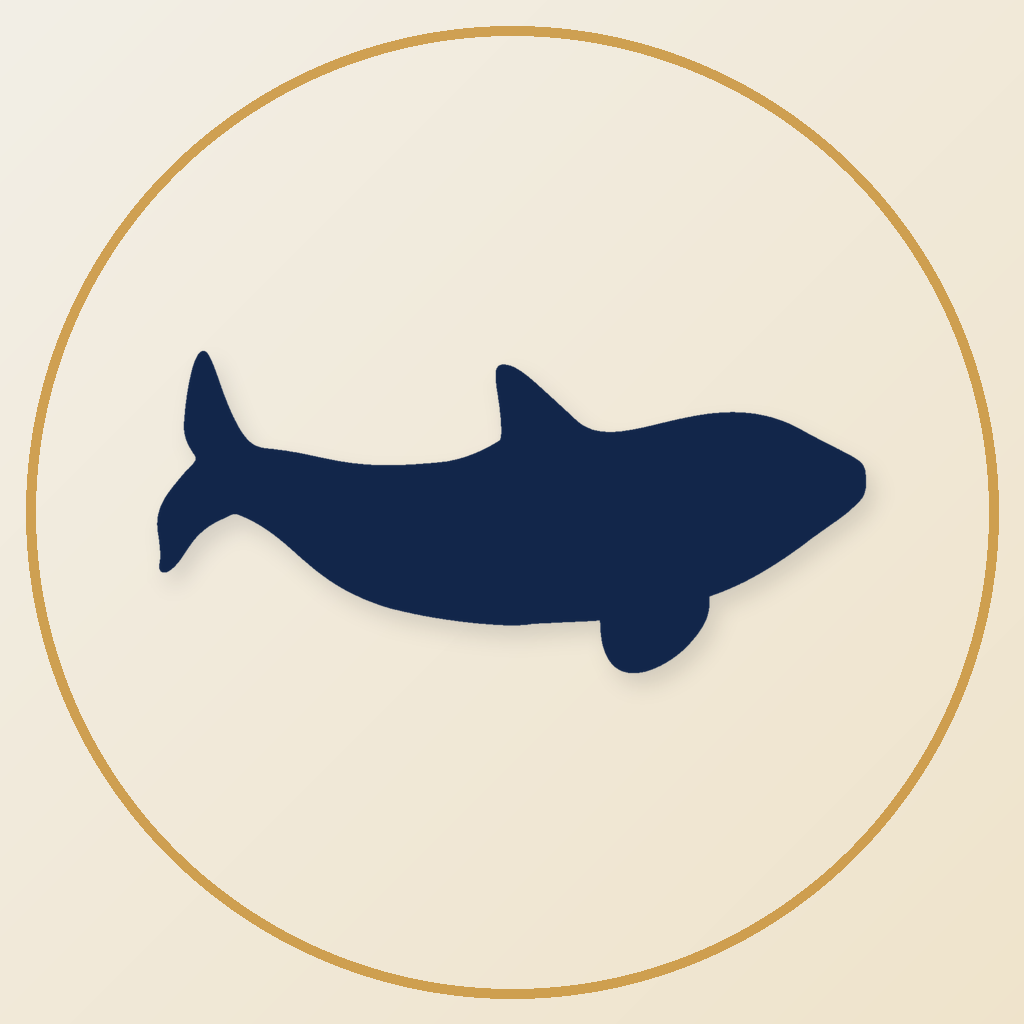
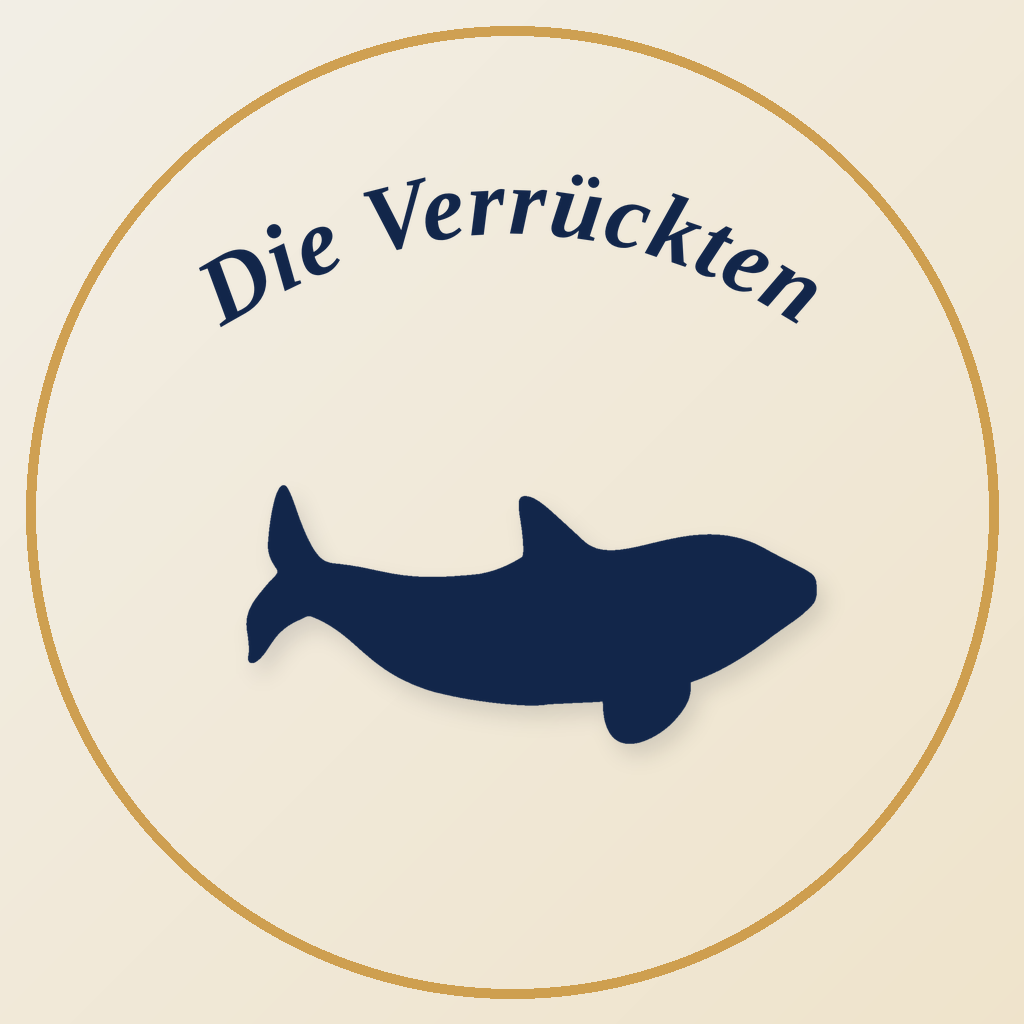
WhatsApp-Profilbild mit gebogenem Schriftzug 'Die Verrückten' individueller gestalten

Changed region(s): [[0.1562, 0.3438, 0.8438, 0.75], [0.3438, 0.1562, 0.8125, 0.3125], [0.1875, 0.2188, 0.3438, 0.3125]]

diff --git a/extras/whatsapp-profilbild/arctext-die-verrueckten.html b/extras/whatsapp-profilbild/arctext-die-verrueckten.html
@@ -1,0 +1,11 @@
+<!doctype html><html><head><meta charset="utf-8"></head>
+<body style="margin:0;background:transparent;">
+<svg xmlns="http://www.w3.org/2000/svg" viewBox="0 0 1000 380" width="1000" height="380">
+  <defs>
+    <path id="arc" d="M 60,340 Q 500,-40 940,340" fill="none"/>
+  </defs>
+  <text font-family="Georgia, 'Times New Roman', serif" font-style="italic" font-size="108" font-weight="700" fill="#12264a" letter-spacing="2">
+    <textPath href="#arc" startOffset="50%" text-anchor="middle">Die Verrückten</textPath>
+  </text>
+</svg>
+</body></html>

diff --git a/extras/whatsapp-profilbild/build.py b/extras/whatsapp-profilbild/build.py
@@ -1,9 +1,22 @@
+"""
+WhatsApp-Profilbild fuer die Gruppe "Die Verrueckten" im Teambuch-Design:
+Orka-Silhouette (aus site/orka-symbol.png, navy eingefaerbt) auf warmem
+Verlaufshintergrund, mit gebogenem Schriftzug "Die Verrueckten" (Georgia
+italic, wie das "Teambuch"-Wortlogo) und duennem Gold-Ring als Rahmen.
+
+Voraussetzungen (liegen im selben Ordner):
+  - arctext-die-verrueckten.png  (gebogener Schriftzug, transparent,
+    gerendert aus arctext-die-verrueckten.html per Playwright)
+
+Aufruf: python3 build.py  -> erzeugt profilbild-die-verrueckten.png
+(1024x1024, WhatsApp schneidet das Bild beim Upload automatisch rund zu).
+"""
 import pathlib
 from PIL import Image, ImageDraw, ImageFilter
 import numpy as np
 
-OUT_DIR = pathlib.Path("/home/user/Teambuch/extras/whatsapp-profilbild")
-OUT_DIR.mkdir(exist_ok=True)
+BASE = pathlib.Path(__file__).parent
+OUT_DIR = BASE
 
 NAVY = (18, 38, 74)       # #12264a
 CREAM = (243, 239, 230)   # #f3efe6
@@ -11,48 +24,54 @@ GOLD = (197, 139, 43)     # #c58b2b
 
 SIZE = 1024
 
-# simple, calm diagonal gradient: cream -> slightly warmer cream/gold tint
+# calm diagonal gradient: cream -> warm gold-tinted cream
 yy, xx = np.mgrid[0:SIZE, 0:SIZE]
-t = (xx + yy) / (2 * SIZE)  # 0 top-left -> 1 bottom-right
-t = np.clip(t, 0, 1)
-
+t = np.clip((xx + yy) / (2 * SIZE), 0, 1)
 cream = np.array(CREAM, dtype=np.float32)
-warm = np.array((238, 224, 195), dtype=np.float32)  # soft warm cream, gold-tinted
+warm = np.array((238, 224, 195), dtype=np.float32)
 grad = cream[None, None, :] * (1 - t[:, :, None] * 0.75) + warm[None, None, :] * (t[:, :, None] * 0.75)
-canvas = Image.fromarray(np.clip(grad, 0, 255).astype(np.uint8), "RGB")
+canvas = Image.fromarray(np.clip(grad, 0, 255).astype(np.uint8), "RGB").convert("RGBA")
 
-# orka silhouette, recolored to navy, centered
-orka = Image.open("/home/user/Teambuch/site/orka-symbol.png").convert("RGBA")
+# orka silhouette, recolored to navy
+orka = Image.open(BASE.parent.parent / "site" / "orka-symbol.png").convert("RGBA")
 alpha = orka.split()[-1]
 navy_layer = Image.new("RGBA", orka.size, NAVY + (0,))
 navy_layer.putalpha(alpha)
 
-target_w = int(SIZE * 0.72)
+target_w = int(SIZE * 0.58)
 scale = target_w / navy_layer.width
 target_h = int(navy_layer.height * scale)
 navy_big = navy_layer.resize((target_w, target_h), Image.LANCZOS)
 
-paste_x = (SIZE - target_w) // 2
-paste_y = int(SIZE * 0.5) - target_h // 2
+paste_x = (SIZE - target_w) // 2 + int(SIZE * 0.02)
+paste_y = int(SIZE * 0.60) - target_h // 2
 
-# soft drop shadow for gentle depth
+# soft drop shadow
 shadow = Image.new("RGBA", canvas.size, (0, 0, 0, 0))
 shadow_layer = Image.new("RGBA", navy_big.size, NAVY + (90,))
 shadow_layer.putalpha(navy_big.split()[-1].point(lambda a: int(a * 0.35)))
 shadow.paste(shadow_layer, (paste_x + 8, paste_y + 12), shadow_layer)
 shadow = shadow.filter(ImageFilter.GaussianBlur(10))
+canvas.alpha_composite(shadow)
+canvas.alpha_composite(navy_big, (paste_x, paste_y))
 
-canvas_rgba = canvas.convert("RGBA")
-canvas_rgba.alpha_composite(shadow)
-canvas_rgba.alpha_composite(navy_big, (paste_x, paste_y))
+# arc lettering "Die Verrueckten", curved above the whale
+arctext = Image.open(BASE / "arctext-die-verrueckten.png").convert("RGBA")
+at_w = int(SIZE * 0.86)
+at_scale = at_w / arctext.width
+at_h = int(arctext.height * at_scale)
+arctext_big = arctext.resize((at_w, at_h), Image.LANCZOS)
+at_x = (SIZE - at_w) // 2
+at_y = int(SIZE * 0.10)
+canvas.alpha_composite(arctext_big, (at_x, at_y))
 
-# thin gold ring accent, inset from the edge (echoes the site's gold accent color)
+# thin gold ring accent, inset from the edge
 ring = Image.new("RGBA", canvas.size, (0, 0, 0, 0))
 d = ImageDraw.Draw(ring)
 inset = 26
 d.ellipse([inset, inset, SIZE - inset, SIZE - inset], outline=GOLD + (200,), width=10)
-canvas_rgba.alpha_composite(ring)
+canvas.alpha_composite(ring)
 
-final = canvas_rgba.convert("RGB")
+final = canvas.convert("RGB")
 final.save(OUT_DIR / "profilbild-die-verrueckten.png")
 print("saved", final.size)
